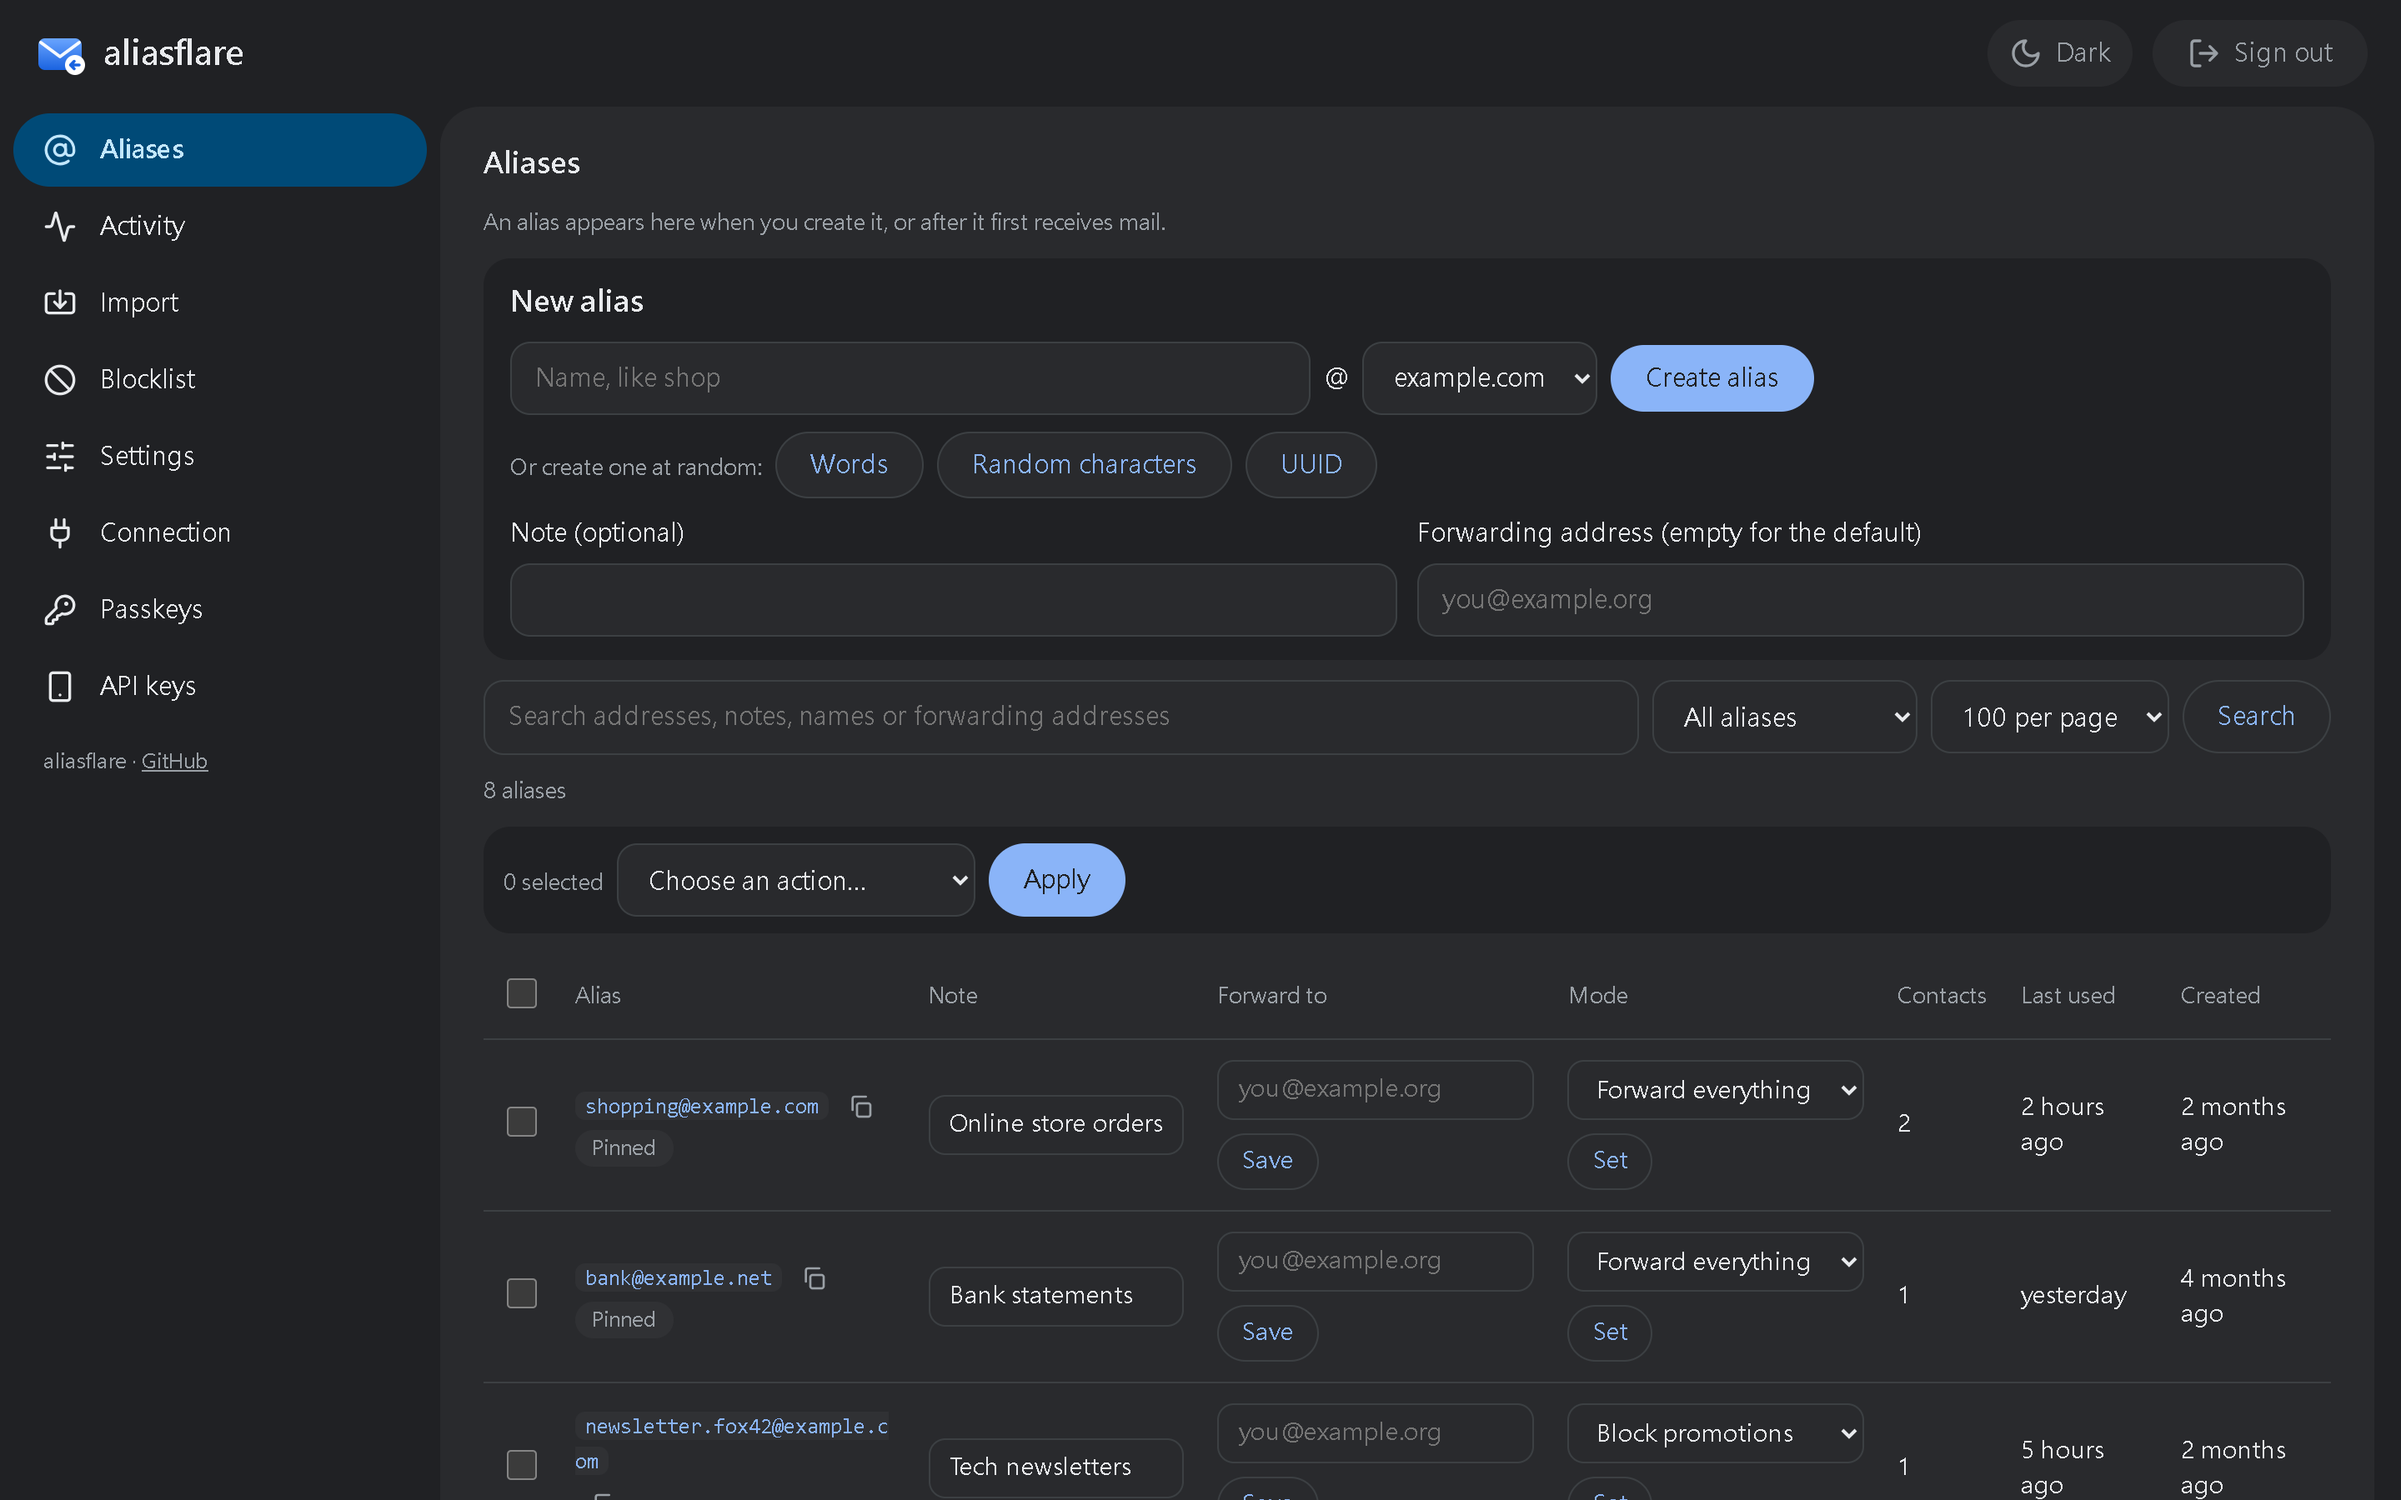
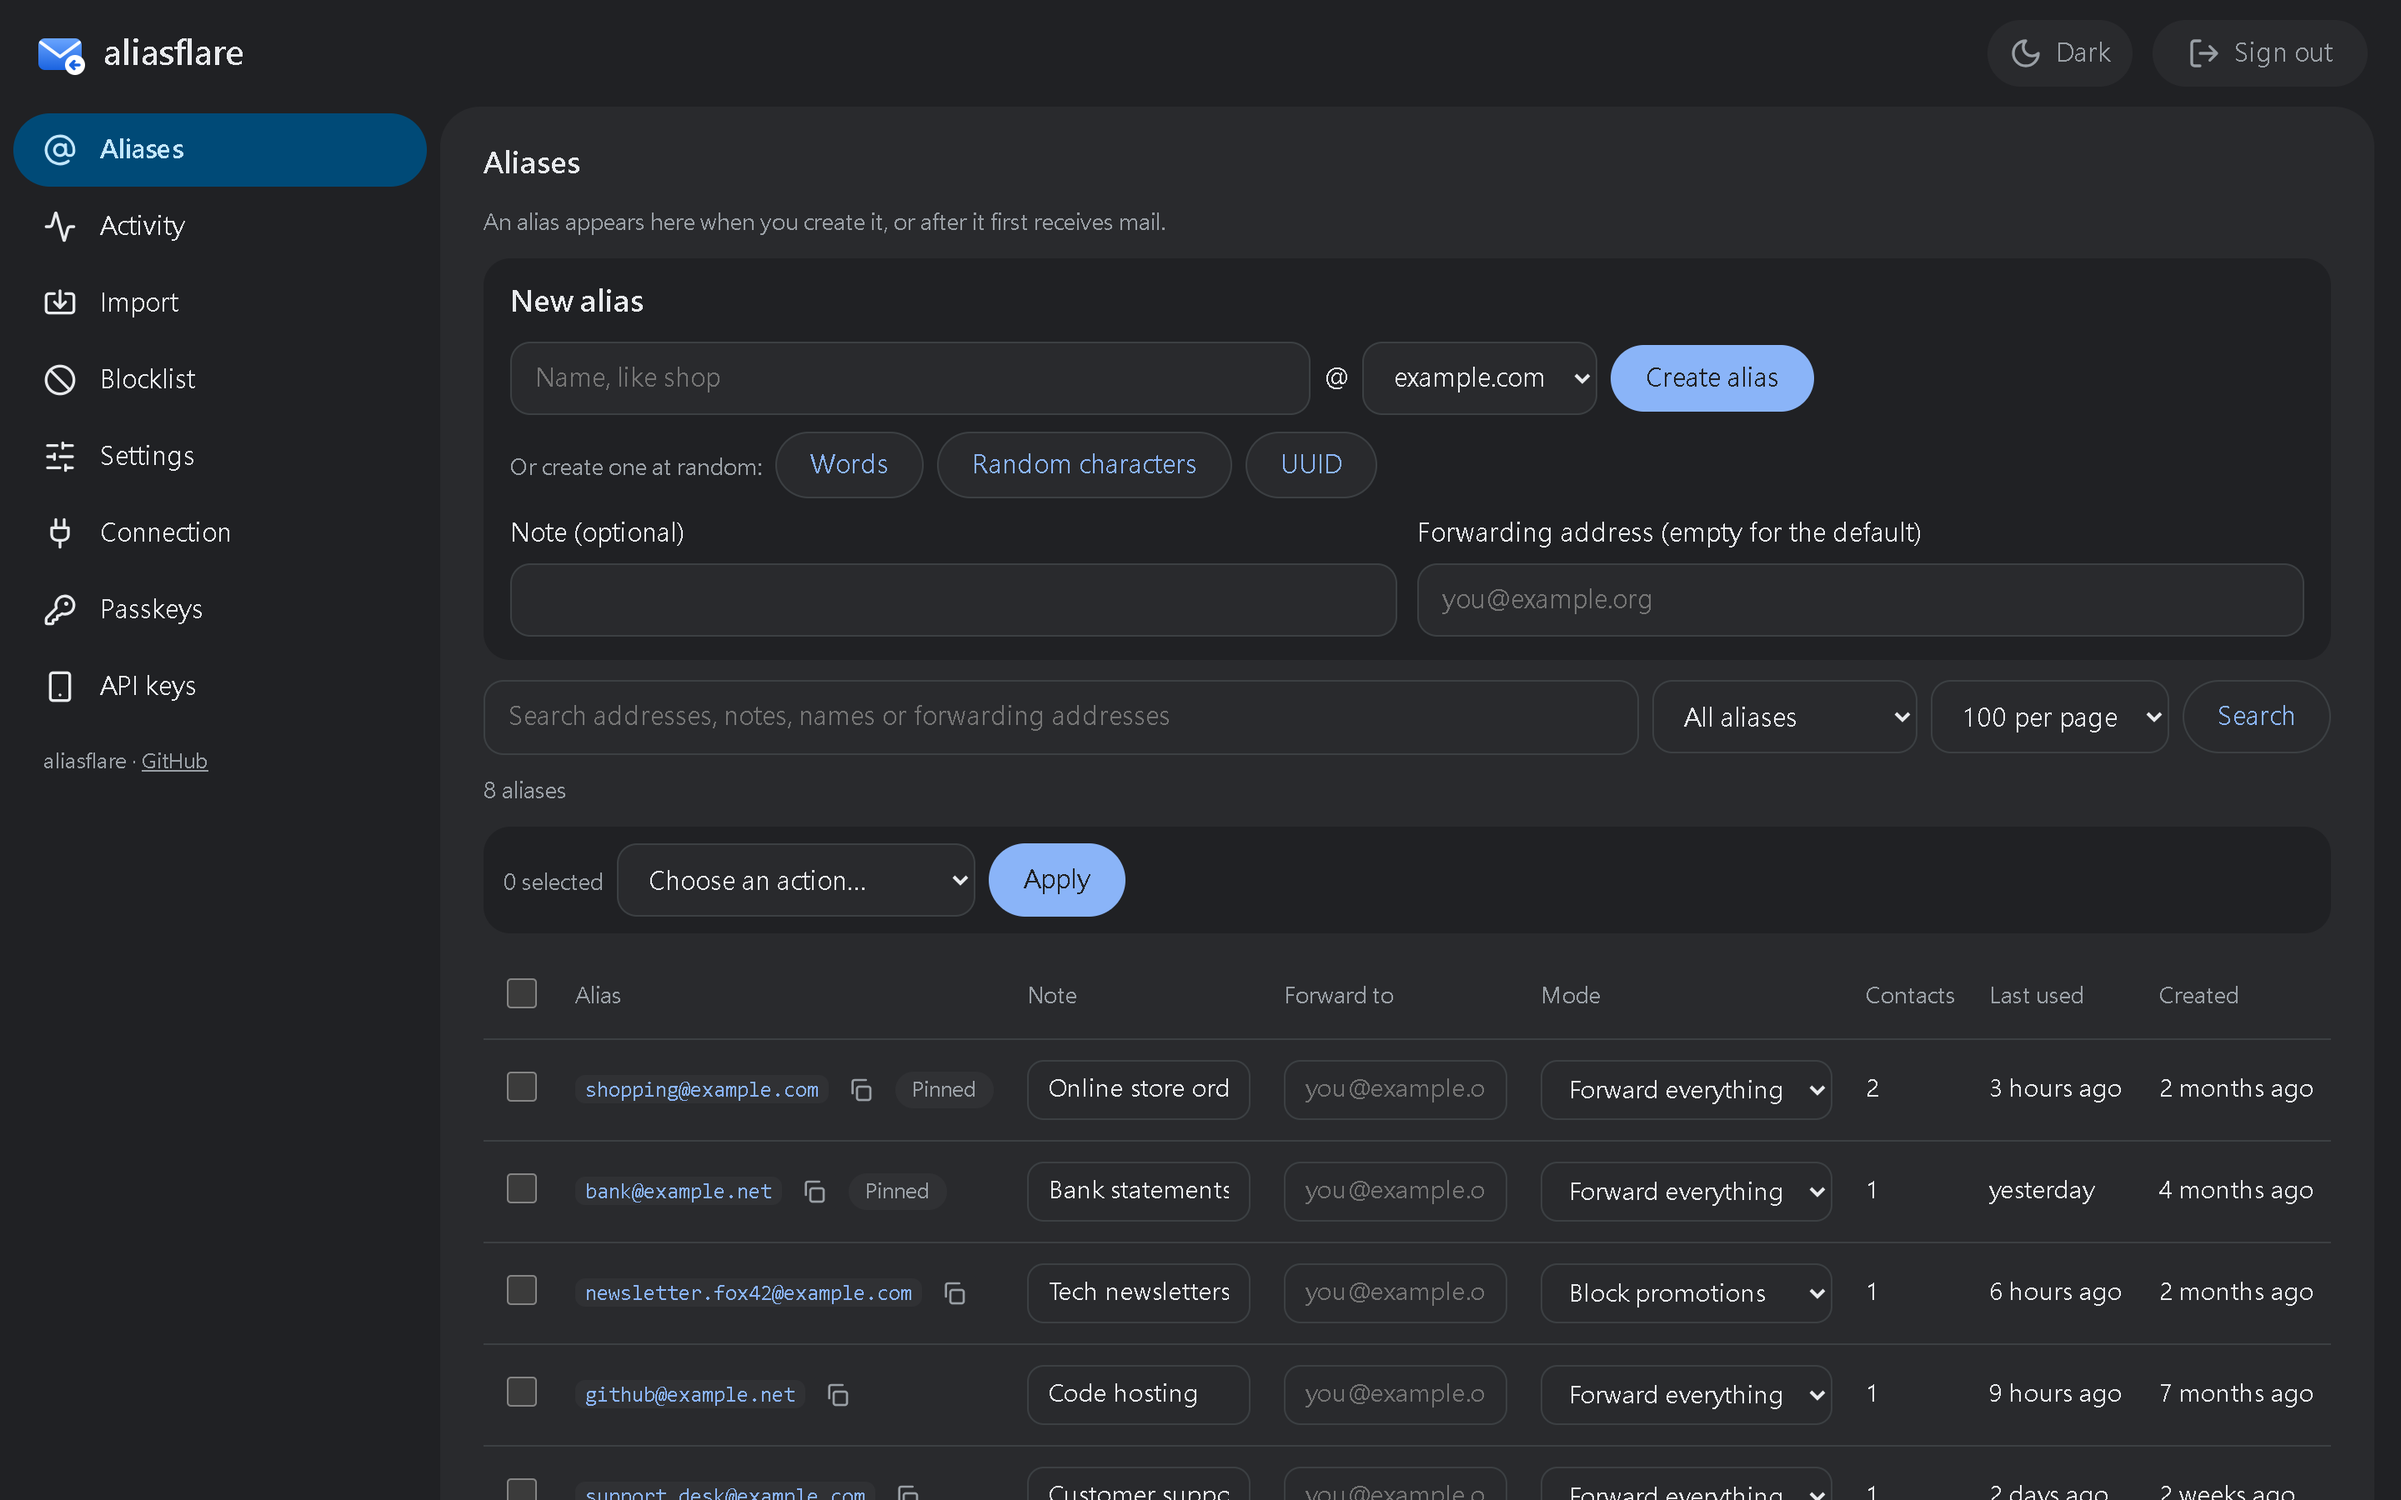
README: English only, new screenshots, smaller phone shots
- Remove README.zh-TW.md and its link (the dashboard itself stays in 35
  languages)
- Retake the screenshots for the one-line alias rows and compact phone
  layout; the phone shots (alias list and activity) sit side by side at a
  smaller size

diff --git a/README.md b/README.md
@@ -4,8 +4,6 @@ SimpleLogin-style **email aliases with reverse aliases**, on one Cloudflare Work
 
 Give every site its own address on your domains. aliasflare forwards their mail to the inbox you already use, like Gmail. When you reply there, the reply goes out from the alias, so the other side never sees your real address.
 
-[繁體中文說明](README.zh-TW.md)
-
 ## Screenshots
 
 ![The alias list](docs/screenshots/dashboard.png)
@@ -15,7 +13,13 @@ Give every site its own address on your domains. aliasflare forwards their mail 
 | ![An alias and its contacts](docs/screenshots/alias.png) | ![Activity](docs/screenshots/activity.png) |
 | ![Settings](docs/screenshots/settings.png) | ![Dark mode](docs/screenshots/dashboard-dark.png) |
 
-<p align="center"><img src="docs/screenshots/mobile.png" width="300" alt="On a phone"></p>
+On a phone:
+
+<p align="center">
+<img src="docs/screenshots/mobile.png" width="220" alt="The alias list on a phone">
+&nbsp;
+<img src="docs/screenshots/mobile-activity.png" width="220" alt="Activity on a phone">
+</p>
 
 ## Features
 
